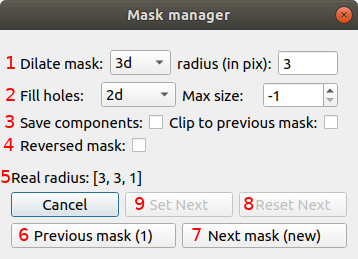
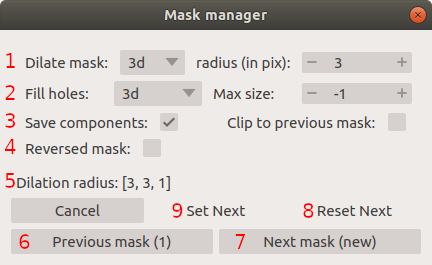
fix last screenshots
fix docs warning
initial fix for 3 TODO

diff --git a/package/PartSegImage/image.py b/package/PartSegImage/image.py
@@ -407,11 +407,11 @@ class Image:
 
     def get_channel(self, num) -> np.ndarray:
         """
-        Alias for :py:func:`get_sub_data`(c=num)
+        Alias for :py:func:`get_sub_data` with argument ``c=num``
 
         :param int num: channel num to be extracted
-        :return: given channel
-        :rtype:  numpy.ndarray
+        :return: given channel array
+        :rtype: numpy.ndarray
         """
         return self.get_data_by_axis(c=num)
 

diff --git a/docs/interface-overview/interface-overview.rst b/docs/interface-overview/interface-overview.rst
@@ -87,7 +87,9 @@ On top of the window there are 6 buttons:
     Selected components are omitted when next round of segmentation
     is performed.
 16. Select if preserve selected components when loading different segmentation
-    (from file or `Multiple files panel`_). TODO
+    (from file or `Multiple files panel`_).
+    Preserved components overwrite existing voxel labeling in loaded segmentation.
+    (CHECK)
 17. Opens window with a preview of segmentation parameters for each component.
     **Reuse parameters** button from this window restores selected parameters.
 
@@ -534,8 +536,8 @@ of current segmentation into a new mask.
 5. Shows calculated dilation radius in x, y, z for current image.
 6. Undo of last masking operation.
 7. Creates new mask or draws back to previously undone one.
-8. TODO
-9. TODO
+8. Clean redo history. (CHECK)
+9. Take mask creation parameters from next mask and set in interface. (CHECK)
 
 Multiple files panel
 ~~~~~~~~~~~~~~~~~~~~~
@@ -550,9 +552,9 @@ Each state represents segmentation done with different parameters.
 
 1.  List of opened files and created states.
 2.  Saves current image state. Each stated can be reloaded by double click.
-3.  Removes saved state.
-4.  Loads multiple files to PartSeg.
-5.  Enables to set custome names for saved states.
+3.  Loads multiple files to PartSeg.
+4.  Removes saved state.
+5.  Enables to set custom names for saved states.
 
 Tips and Tricks
 ---------------

diff --git a/docs/PartSegCore/base.rst b/docs/PartSegCore/base.rst
@@ -61,3 +61,10 @@ On this page there are described base classes of PartSegCore module
 .. automodule:: PartSegCore.mask_partition_utils
    :members:
    :show-inheritance:
+
+.segmentaton_info
+~~~~~~~~~~~~~~~~~
+
+.. automodule:: PartSegCore.segmentation_info
+   :members:
+   :show-inheritance:

diff --git a/docs/PartSegCore/segmentation.rst b/docs/PartSegCore/segmentation.rst
@@ -23,11 +23,3 @@ Base classes
 .. automodule:: PartSegCore.segmentation.restartable_segmentation_algorithms
    :members:
    :show-inheritance:
-
-
-.segmentaton_info
-~~~~~~~~~~~~~~~~~
-
-.. automodule:: PartSegCore.segmentation.segmentation_info
-   :members:
-   :show-inheritance:
